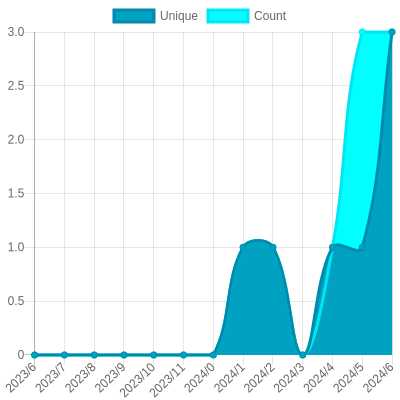
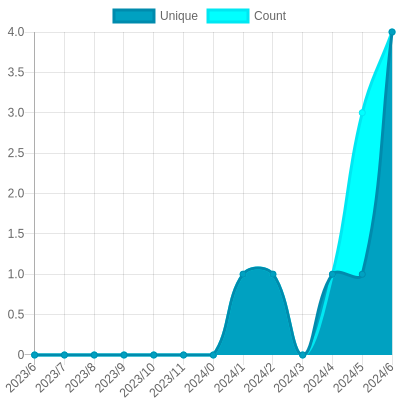
Update views

diff --git a/readme/470949227/year.md b/readme/470949227/year.md
@@ -23,10 +23,10 @@
 			<code>2023/7/1</code>
 		</td>
 		<td>
-			<code>3</code>
+			<code>4</code>
 		</td>
 		<td>
-			<code>3</code>
+			<code>4</code>
 		</td>
 	</tr>
 	<tr>
@@ -164,7 +164,7 @@
 </table>
 
 </details>
-<small><i>Last updated on 2023/7/14 6:00 AM UTC</i></small>
+<small><i>Last updated on 2023/7/14 12:09 PM UTC</i></small>
 
 ## ✂Copy and 📋 Paste
 ### SVG Badge

diff --git a/README.md b/README.md
@@ -53,7 +53,7 @@ The project created and maintained by [gayanvoice](https://github.com/gayanvoice
 	</tr>
 </table>
 
-<small><i>Last updated on 2023/7/14 6:01 AM UTC</i></small>
+<small><i>Last updated on 2023/7/14 12:09 PM UTC</i></small>
 
 ## ✂Copy and 📋 Paste
 ### Total Views Badge

diff --git a/readme/463914141/year.md b/readme/463914141/year.md
@@ -164,7 +164,7 @@
 </table>
 
 </details>
-<small><i>Last updated on 2023/7/14 6:00 AM UTC</i></small>
+<small><i>Last updated on 2023/7/14 12:09 PM UTC</i></small>
 
 ## ✂Copy and 📋 Paste
 ### SVG Badge
